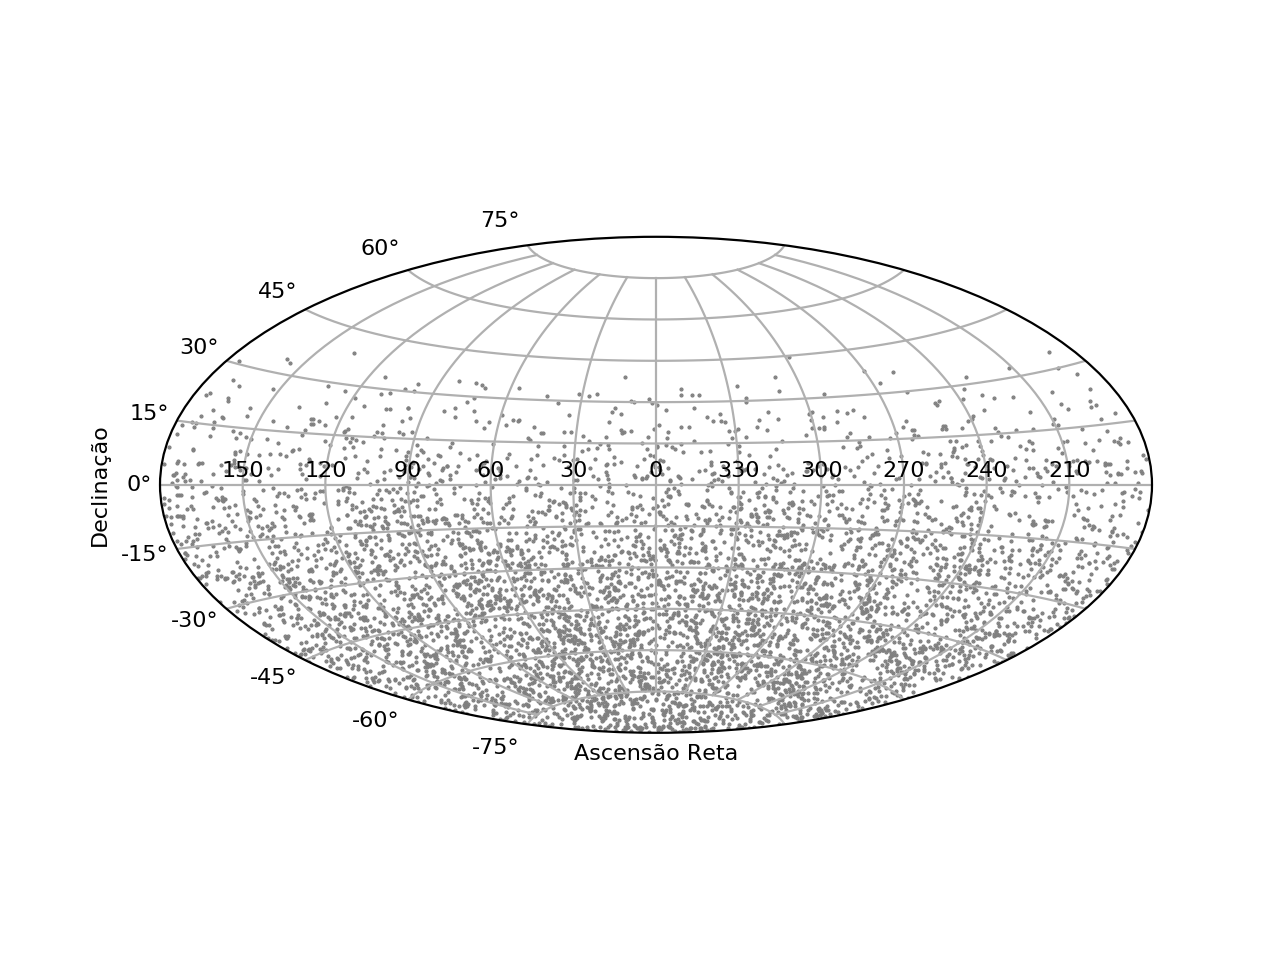
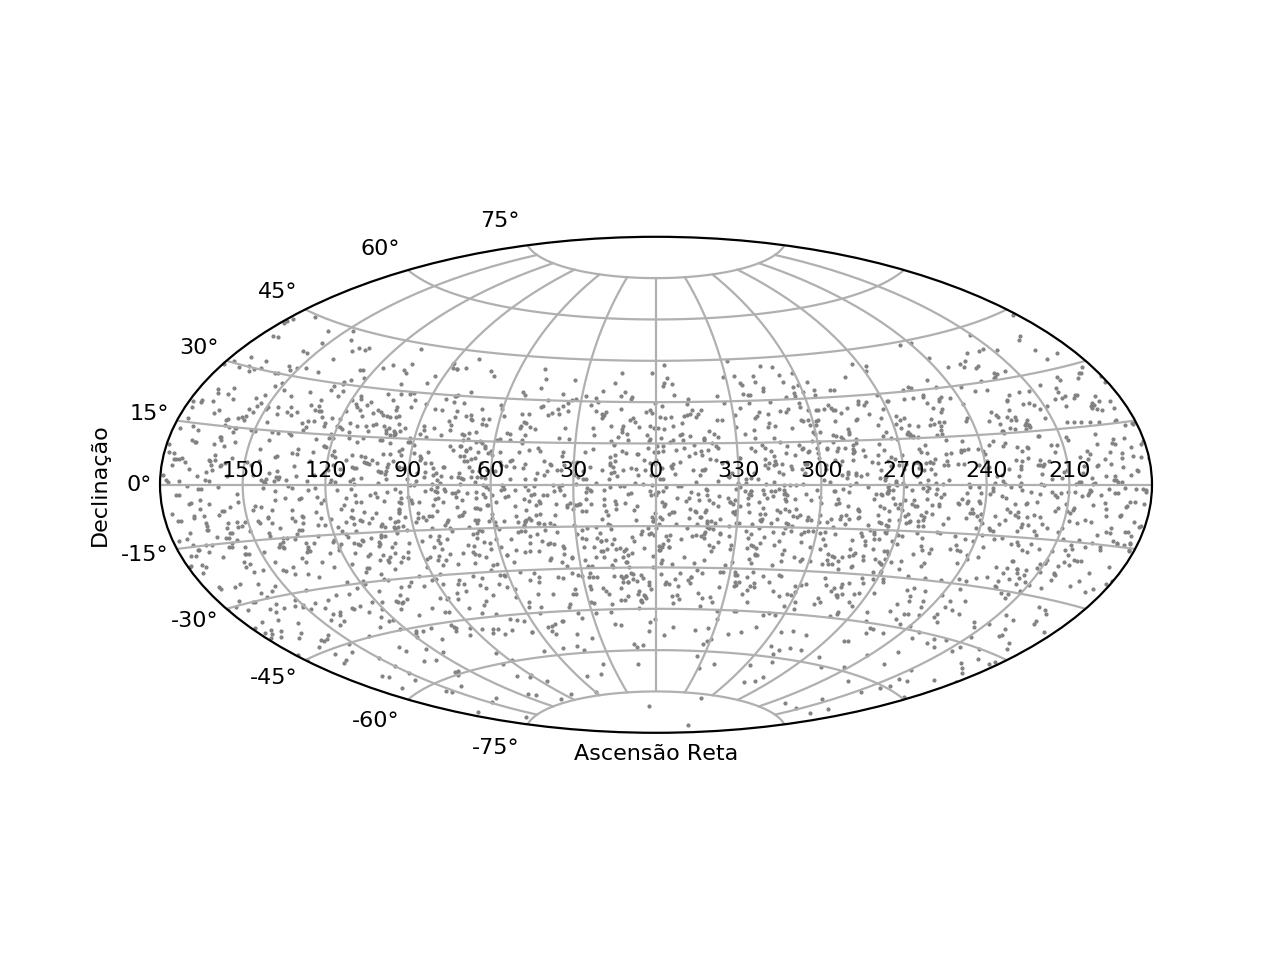
fixes

Changed region(s): [[0.125, 0.375, 0.9062, 0.7812], [0.25, 0.3438, 0.2812, 0.375]]

diff --git a/exposicao/angles.py b/exposicao/angles.py
@@ -15,7 +15,7 @@ theta = lambda x: math.acos((math.sqrt(1 - 4*D*x + D**2 + 2*D)  - 1)/ D)
 phi = lambda x: 2 * math.pi * x
 
 alpha = lambda x: math.degrees(phi(x))
-delta = lambda x: math.degrees(theta(x) - math.pi / 2)
+delta = lambda x: math.degrees(math.pi / 2 - theta(x))
 
 run = lambda fn: list(map(fn, map(lambda x: random.random(), range(MAX))))
 

diff --git a/exposicao/angles_1.py b/exposicao/angles_1.py
@@ -15,7 +15,7 @@ theta = lambda x: math.acos((math.sqrt(1 - 4*D*x + D**2 + 2*D)  - 1)/ D)
 phi = lambda x: 2 * math.pi * x
 
 alpha = lambda x: math.degrees(phi(x))
-delta = lambda x: math.degrees(theta(x) - math.pi / 2)
+delta = lambda x: math.degrees(math.pi/2 - theta(x))
 
 run = lambda fn: list(map(fn, map(lambda x: random.random(), range(MAX))))
 
